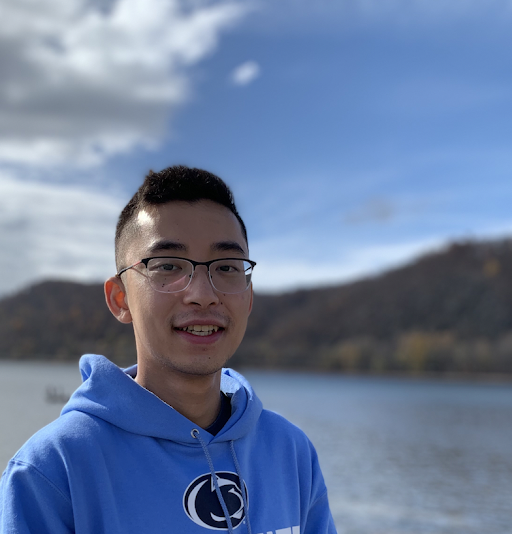
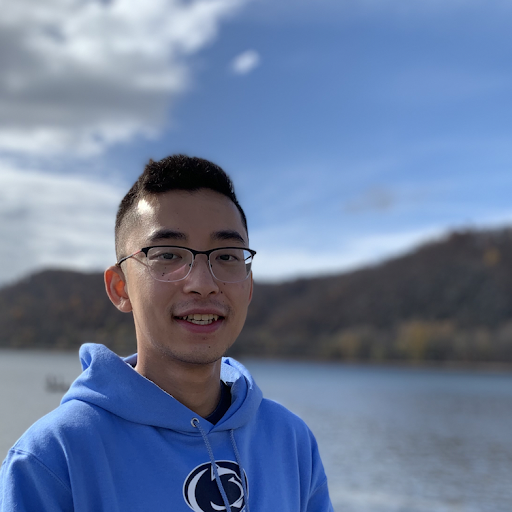
Added Mish, Srihari. Fixed Raymond's scaling issues

diff --git a/src/pages/careers.jsx b/src/pages/careers.jsx
@@ -30,7 +30,7 @@ export default function Careers() {
       personName: "Raymond Yan",
       position: "Co-Founder",
       image: "../Raymond.jpeg",
-      width: "195"
+      width: "200"
     },
     {
       personName: "Abhinav Byreddy",
@@ -39,6 +39,24 @@ export default function Careers() {
       width: "200",
       height: "200"
     },
+    {
+      personName: "Srihari Raman",
+      position: "CFO",
+      image: "../srihari.jpg",
+      width: "200",
+      height: "200"
+    },
+
+    {
+      personName: "Mish Adelanwa",
+      position: "Advisor",
+      image: "../mish.jpg",
+      width: "200",
+      height: "200"
+    },
+  
+  
+
 
 
   ]
@@ -58,6 +76,7 @@ export default function Careers() {
       listingPosted: "Feb 11th",
       type: "Remote"
     },
+
   ]
 
 
